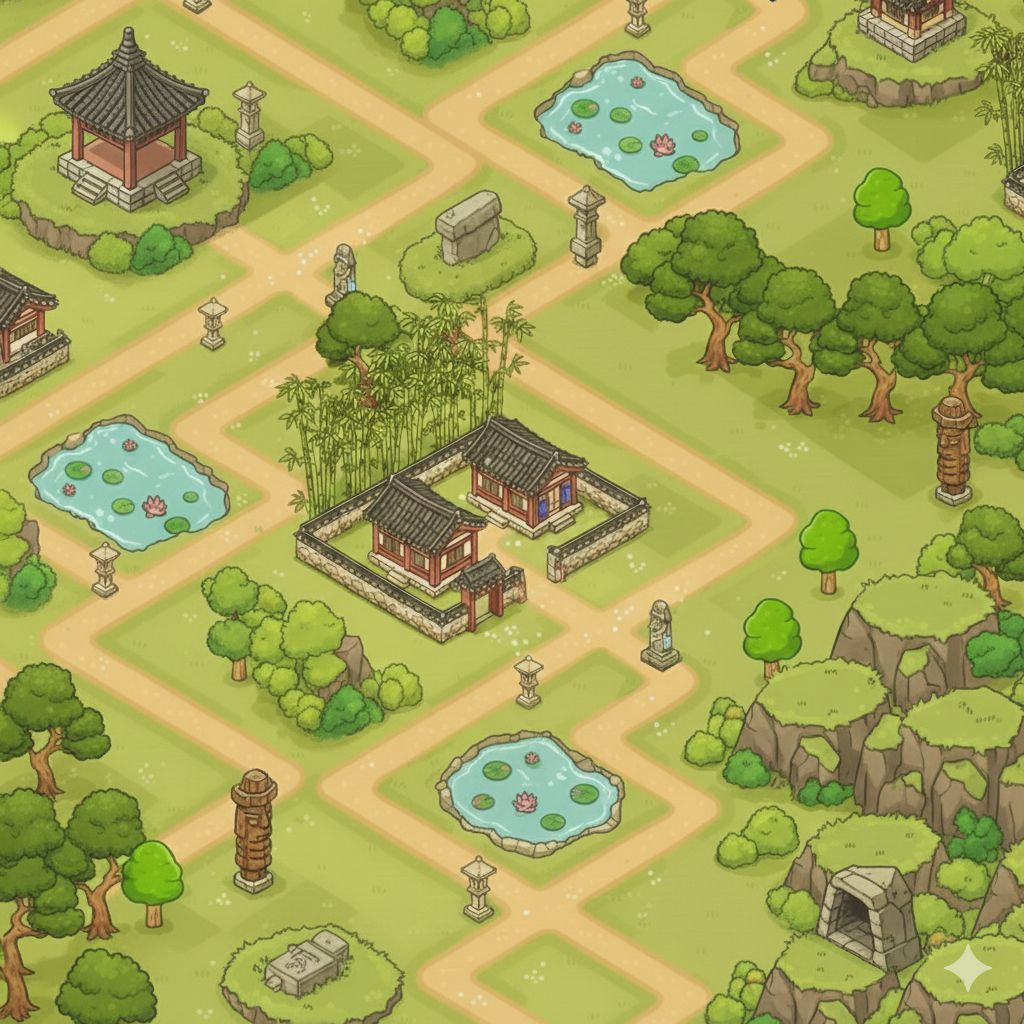
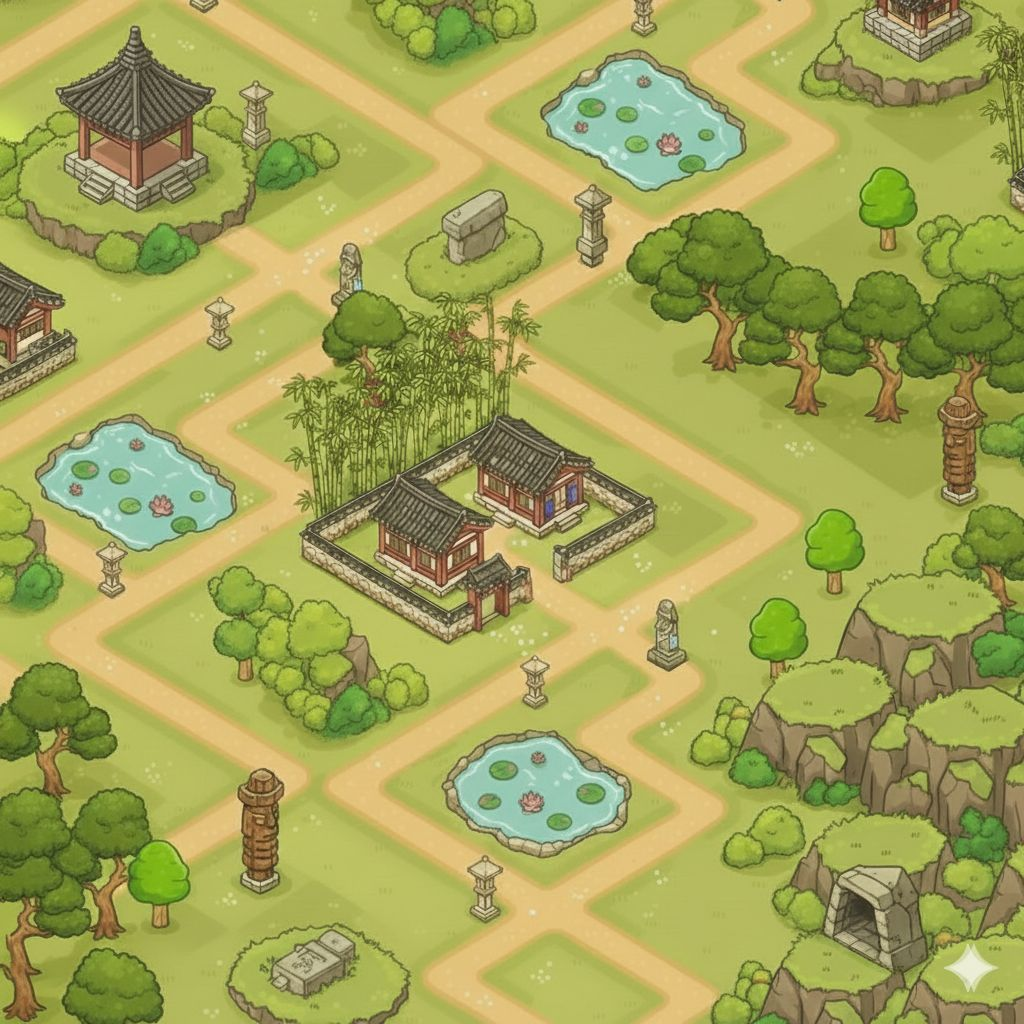
배경 이미지 교체 (새 버전)

diff --git a/index.html b/index.html
@@ -7,11 +7,11 @@
     <meta http-equiv="Cache-Control" content="no-cache, no-store, must-revalidate">
     <meta http-equiv="Pragma" content="no-cache">
     <meta http-equiv="Expires" content="0">
-    <link rel="stylesheet" href="style.css?v=20250213e">
+    <link rel="stylesheet" href="style.css?v=20250213f">
 </head>
 <body>
     <canvas id="gameCanvas"></canvas>
     <div id="touch-area" tabindex="0"></div>
-    <script src="game.js?v=20250213e"></script>
+    <script src="game.js?v=20250213f"></script>
 </body>
 </html>
